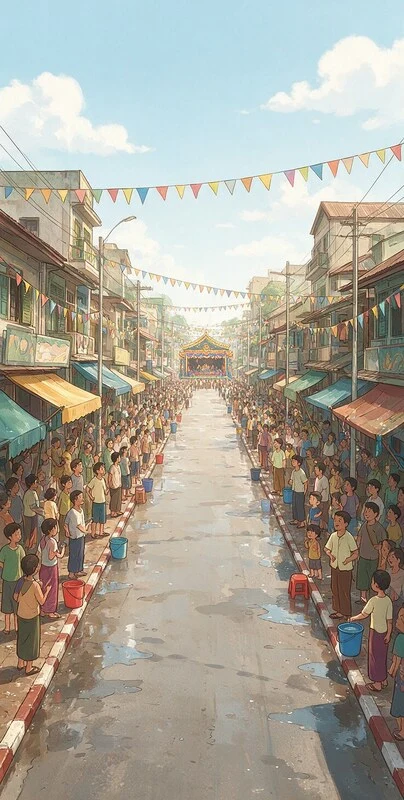
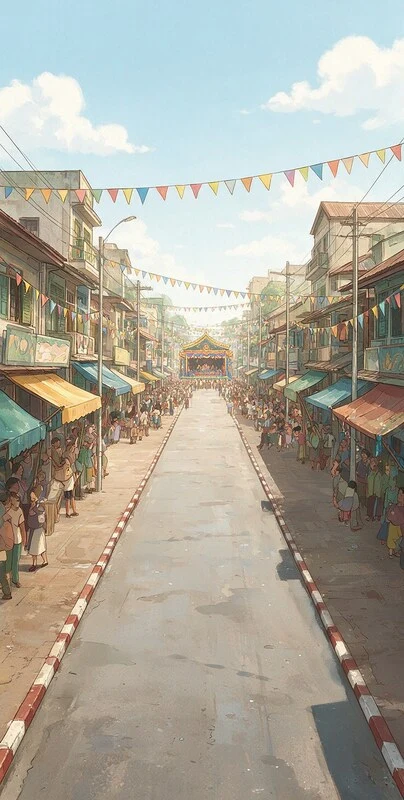
Water street: calmer road art, lane lines stop before the pandal, sheet above sprites, bigger rule thumbnails, sprite motion
Claude-Session: https://claude.ai/code/session_01EzvUtRavncbLs7RHFedc6g

Changed region(s): [[0.0, 0.4688, 0.4752, 0.9688], [0.5644, 0.4688, 1.0, 0.9375], [0.7426, 0.9688, 0.7723, 1.0]]

diff --git a/index.html b/index.html
@@ -377,7 +377,7 @@ img{display:block;user-select:none;-webkit-user-drag:none}
 #wsField{position:absolute;inset:0;overflow:hidden;touch-action:none}
 #wsBg{position:absolute;inset:0;width:100%;height:100%;object-fit:cover;user-select:none;pointer-events:none}
 #wsField svg{position:absolute;inset:0;width:100%;height:100%;pointer-events:none;z-index:1}
-#wsField svg .div{stroke:#fff;stroke-width:2.2;stroke-dasharray:14 12;opacity:.85}
+#wsField svg .div{stroke:url(#wsFade);stroke-width:2.2;stroke-dasharray:14 12;opacity:.85}
 #wsField svg .dz{fill:#3e8fd0;opacity:0;transition:opacity .25s}
 #wsField svg .dz.on{opacity:.32;animation:wsDz .5s ease-in-out infinite alternate}
 @keyframes wsDz{to{opacity:.5}}
@@ -387,8 +387,13 @@ img{display:block;user-select:none;-webkit-user-drag:none}
 #wsField .pal.far{pointer-events:none}
 #wsField .pal.hit{filter:drop-shadow(0 6px 4px rgba(0,0,0,.25)) brightness(.86) saturate(.7) hue-rotate(-10deg)}
 #wsMin{z-index:150;transition:left .14s ease}
-#wsMin.run{animation:wsRun .32s ease-in-out infinite alternate}
-@keyframes wsRun{to{margin-top:-5px}}
+#wsField .spr{transform-origin:50% 100%}
+#wsMin.run{animation:wsRun .3s ease-in-out infinite alternate}
+@keyframes wsRun{from{margin-top:0;rotate:-2.5deg}to{margin-top:-6px;rotate:2.5deg}}
+#wsField .pal:not(.hit){animation:wsWob .36s ease-in-out infinite alternate}
+@keyframes wsWob{from{rotate:-4deg}to{rotate:4deg}}
+#wsField .truck{animation:wsBump .2s ease-in-out infinite alternate}
+@keyframes wsBump{from{rotate:-1.2deg}to{rotate:1.2deg}}
 #wsMin.hit{animation:wsHit .45s}
 @keyframes wsHit{0%,100%{margin-left:0}25%{margin-left:-8px}50%{margin-left:8px}75%{margin-left:-4px}}
 #wsField .may{z-index:40}
@@ -397,7 +402,7 @@ img{display:block;user-select:none;-webkit-user-drag:none}
 #wsField .pop{position:absolute;z-index:6;pointer-events:none;font:700 14px/18px var(--sans);color:#fff;text-shadow:0 1px 3px rgba(0,0,0,.45);transform:translate(-50%,0);animation:wsUp .8s forwards;white-space:nowrap}
 #wsField .pop.bad{color:#ffd9cf}
 @keyframes wsUp{to{margin-top:-38px;opacity:0}}
-#wsHud{position:absolute;left:0;right:0;top:0;padding:52px 16px 26px;background:linear-gradient(rgba(20,30,32,.72),rgba(20,30,32,0));z-index:7;color:#fff;display:none}
+#wsHud{position:absolute;left:0;right:0;top:0;padding:52px 16px 26px;background:linear-gradient(rgba(20,30,32,.72),rgba(20,30,32,0));z-index:300;color:#fff;display:none}
 #wsHud .row{display:flex;align-items:center;gap:10px}
 #wsHud .song{flex:1;height:8px;border-radius:999px;background:rgba(255,255,255,.25);position:relative}
 #wsHud .song i{position:absolute;left:0;top:0;bottom:0;width:0;border-radius:999px;background:#ffd36b}
@@ -406,19 +411,22 @@ img{display:block;user-select:none;-webkit-user-drag:none}
 #wsHud .lives{display:flex;gap:4px;margin-top:10px;align-items:center;font:500 12px/16px var(--sans)}
 #wsHud .lives .ic.off{opacity:.28}
 #wsHud .sc{margin-left:auto;display:flex;gap:4px;align-items:center;font:600 13px/16px var(--sans)}
-#wsCard{position:absolute;left:16px;right:16px;bottom:24px;z-index:8;background:#fffaf2;border-radius:20px;padding:20px 18px 16px;box-shadow:0 18px 50px rgba(0,0,0,.35);color:#1d2a2c;display:none}
+#wsCard{position:absolute;left:16px;right:16px;bottom:24px;z-index:320;background:#fffaf2;border-radius:20px;padding:20px 18px 16px;box-shadow:0 18px 50px rgba(0,0,0,.35);color:#1d2a2c;display:none}
 #wsCard .eb{font:600 12px/16px var(--sans);color:#b5562f;letter-spacing:.02em}
 #wsCard h2{font:600 22px/27px var(--serif);margin:3px 0 8px}
 #wsCard p{font:400 14px/20px var(--sans);color:#4c5b5e}
 #wsCard ul{list-style:none;margin:10px 0 4px;display:grid;gap:8px}
 #wsCard li{display:flex;gap:12px;align-items:center;font:400 14px/19px var(--sans);color:#33474a}
-#wsCard li .th{flex:none;width:44px;height:44px;border-radius:12px;background:#dceef1 center/contain no-repeat}
+#wsCard li .th{flex:none;width:64px;height:64px;border-radius:14px;background:#dceef1 center 70%/88% auto no-repeat}
+#wsCard li .th.tr{background-size:74% auto;background-position:center}
+#wsCard li .th.lr{display:flex;align-items:center;justify-content:center}
+#wsCard li .th.lr svg{width:44px;height:44px}
 #wsCard li .th.ic{display:flex;align-items:center;justify-content:center;font-size:22px;color:#2f6f7a;background:#dceef1}
 #wsCard li b{color:#1d2a2c;font-weight:600}
 #wsCard .btns{display:flex;flex-direction:column;gap:8px;margin-top:14px}
 #wsCard button{padding:14px;border-radius:999px;background:#1d2a2c;color:#fff;font:600 15px/20px var(--sans)}
 #wsCard button.sec{background:#e9e1d3;color:#1d2a2c}
-#wsCount{position:absolute;inset:0;z-index:8;display:none;align-items:center;justify-content:center;font:600 72px/1 var(--serif);color:#fff;text-shadow:0 4px 20px rgba(0,0,0,.4);pointer-events:none}
+#wsCount{position:absolute;inset:0;z-index:310;display:none;align-items:center;justify-content:center;font:600 72px/1 var(--serif);color:#fff;text-shadow:0 4px 20px rgba(0,0,0,.4);pointer-events:none}
 </style>
 </head>
 <body>
@@ -869,9 +877,9 @@ async function waterStreet(){
   const cardShow=(html,btns)=>new Promise(res=>{card.innerHTML=html+'<div class="btns">'+btns.map((b,i)=>`<button id="${b[0]}" class="${i?'sec':''}">${b[1]}</button>`).join('')+'</div>';card.style.display='block';
     btns.forEach(b=>{$('#'+b[0]).onclick=e=>{e.stopPropagation();card.style.display='none';res(b[0])}})});
   await cardShow(`<div class="eb">Side quest · Water street</div><h2>Reach May before the song ends</h2><p>She's waiting at the far end of the street, by the pandal.</p>
-    <ul><li><span class="th ic"><i class="ic i-person"></i></span><span><b>Tap left or right</b> of the screen to change lanes.</span></li>
+    <ul><li><span class="th lr"><svg viewBox="0 0 44 44" fill="none" stroke="#2f6f7a" stroke-width="2" stroke-linecap="round" stroke-linejoin="round"><path d="M16 6 12 38M28 6l4 32" stroke-dasharray="3 3" opacity=".55"/><path d="M8 22H3m0 0 3.5-3.5M3 22l3.5 3.5M36 22h5m0 0-3.5-3.5M41 22l-3.5 3.5"/><circle cx="22" cy="15" r="3"/><path d="M22 18v9m-4-6h8m-6.5 13 2.5-7 2.5 7"/></svg></span><span><b>Tap left or right</b> of the screen to change lanes.</span></li>
     <li><span class="th" style="background-image:url(img/ws-pal1.webp)"></span><span><b>Tap friends to splash them</b> before they splash you. Getting wet is fine. It's Thingyan.</span></li>
-    <li><span class="th" style="background-image:url(img/ws-truck.webp)"></span><span><b>Thura's truck drives down one lane</b> and that lane turns blue. Be in another lane when it reaches you. Three hits and Min's camera is ruined.</span></li></ul>`,[['wsStart','Start']]);
+    <li><span class="th tr" style="background-image:url(img/ws-truck.webp)"></span><span><b>Thura's truck drives down one lane</b> and that lane turns blue. Be in another lane when it reaches you. Three hits and Min's camera is ruined.</span></li></ul>`,[['wsStart','Start']]);
   let bag=false,fails=0,res;
   for(;;){res=await wsRun(bag);if(res.ok)break;fails++;
     const b=await cardShow(`<div class="eb">Camera soaked</div><h2>Thura got the camera</h2><p>Min needs it for a photo under the mango tree. Try that street again.</p>`,
@@ -889,14 +897,14 @@ function wsRun(bag){return new Promise(async done=>{
   if(!bg.complete)await new Promise(r=>bg.onload=r);
   const W=f.clientWidth,H=f.clientHeight,IW=404,IH=800,sc=Math.max(W/IW,H/IH),ox=(W-IW*sc)/2,oy=(H-IH*sc)/2;
   // road geometry in image px: vanishing row VY, centre line cx(y), half width hw(y)
-  const VY=337,NY=716,cx=y=>205-(y-400)*.043,hw=y=>.475*(y-VY);
+  const VY=334,NY=716,cx=y=>202-(y-500)*.02,hw=y=>.45*(y-VY);
   const at=(s,l)=>{const y=VY+s*(NY-VY);return{x:ox+(cx(y)+(l-1)*(2/3)*hw(y))*sc,y:oy+y*sc}};
   const LANEW=(2/3)*hw(NY)*sc,max=bag?5:3,sp=S.speed>1?2:1;
   let lives=max,lane=1,wet=0,spl=0,ents=[],over=false;
   const DUR=26000/sp;
   // lane overlay (same cover mapping as the background)
   const NS='http://www.w3.org/2000/svg',svg=document.createElementNS(NS,'svg');svg.setAttribute('viewBox',`0 0 ${IW} ${IH}`);svg.setAttribute('preserveAspectRatio','xMidYMid slice');
-  const y0=VY+12,y1=IH;let d='';
+  const y0=392,y1=IH;svg.innerHTML='<defs><linearGradient id="wsFade" gradientUnits="userSpaceOnUse" x1="0" y1="392" x2="0" y2="470"><stop offset="0" stop-color="#fff" stop-opacity="0"/><stop offset="1" stop-color="#fff" stop-opacity="1"/></linearGradient></defs>';
   [-1/3,1/3].forEach(k=>{svg.insertAdjacentHTML('beforeend',`<line x1="${cx(y0)+k*hw(y0)}" y1="${y0}" x2="${cx(y1)+k*hw(y1)}" y2="${y1}" class="div"/>`)});
   const quad=l=>{const a=(l-1)*(2/3)-1/3,b=a+2/3;return `${cx(y0)+a*hw(y0)},${y0} ${cx(y0)+b*hw(y0)},${y0} ${cx(y1)+b*hw(y1)},${y1} ${cx(y1)+a*hw(y1)},${y1}`};
   [0,1,2].forEach(l=>svg.insertAdjacentHTML('beforeend',`<polygon points="${quad(l)}" class="dz" id="wsDz${l}"/>`));
@@ -912,7 +920,7 @@ function wsRun(bag){return new Promise(async done=>{
     lane=Math.max(0,Math.min(2,lane+(x<W/2?-1:1)));put()};
   const t0=performance.now();let last=t0,nextPal=t0+700,nextTruck=t0+2400/sp;
   const spawn=(k,l)=>{const el=document.createElement('img');el.className='spr '+k;el.src=k==='truck'?'img/ws-truck.webp':Math.random()<.5?'img/ws-pal1.webp':'img/ws-pal2.webp';
-    const o={k,l,z:7,el};f.appendChild(el);ents.push(o);
+    const o={k,l,z:6.2,el};f.appendChild(el);ents.push(o);
     if(k==='pal')el.onpointerdown=e=>{e.stopPropagation();if(over||o.hit||o.z>4.2)return;o.hit=1;spl++;el.classList.add('hit');const p=at(1/o.z,o.l);pop(p.x,p.y-LANEW*1.1/o.z,'Splash!');Audio_.blip(true);lv()};
     if(k==='truck'){$('#wsDz'+l).classList.add('on')}
     return o};
